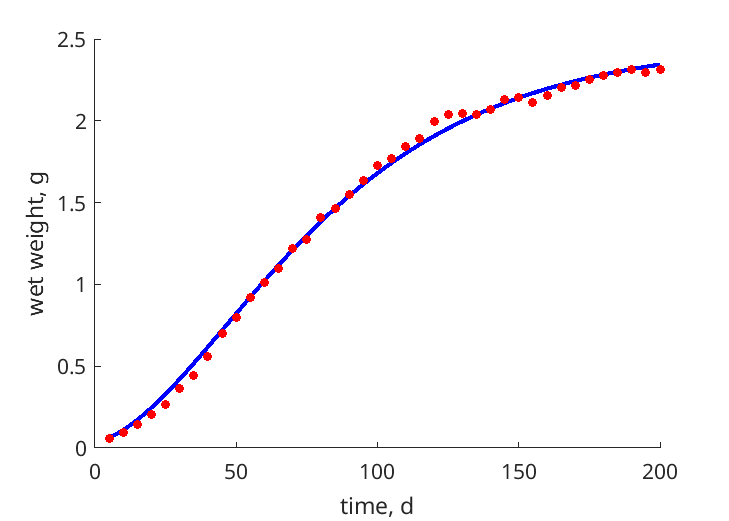
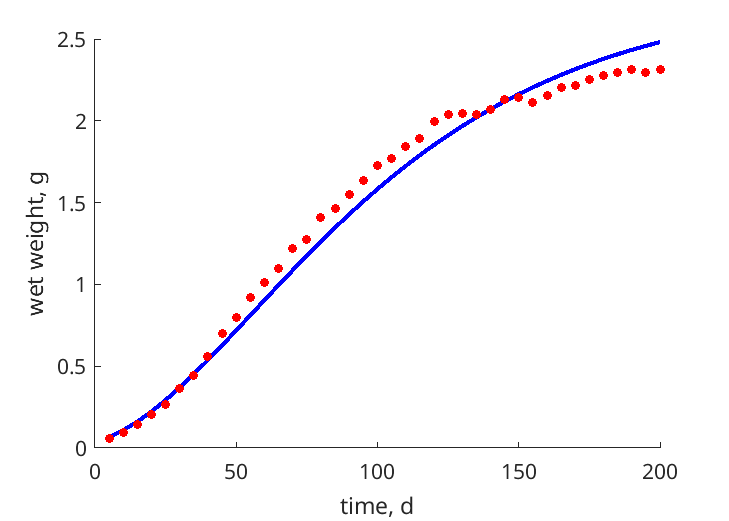
good fits (weighting)

diff --git a/deb_matlab/Dendrobena_veneta_res.html b/deb_matlab/Dendrobena_veneta_res.html
@@ -44,7 +44,7 @@
   </div>
 
   <div class="par">
-  <h4>COMPLETE = 2.5; MRE =    0.197; SMAE =    0.239; SMSE =    0.120 </h4>
+  <h4>COMPLETE = 2.5; MRE =    0.147; SMAE =    0.186; SMSE =    0.087 </h4>
   </div>
 
   <p class="clear"></p>
@@ -53,34 +53,34 @@
   <h2>Data & predictions</h2>
   <TABLE id="prd">
     <TR  class="head"><TH>data</TH> <TH>prd</TH> <TH>RE</TH>  <TH>symbol</TH> <TH>units</TH> <TH>description</TH> </TR>
-    <TR><TD>42.1</TD> <TD>12.24</TD> <TD>0.7093</TD> <TD>ab_25</TD> <TD>d</TD> <TD>age at birth</TD></TR>
-    <TR><TD> 42</TD> <TD>12.24</TD> <TD>0.7086</TD> <TD>ab_25_2</TD> <TD>d</TD> <TD>age at birth</TD></TR>
-    <TR><TD> 71</TD> <TD>31.06</TD> <TD>0.5626</TD> <TD>ab_15</TD> <TD>d</TD> <TD>age at birth</TD></TR>
-    <TR><TD> 21</TD> <TD>19.34</TD> <TD>0.07891</TD> <TD>ab_20</TD> <TD>d</TD> <TD>age at birth</TD></TR>
-    <TR><TD>0.01</TD> <TD>0.02653</TD> <TD>1.653</TD> <TD>Wwb_20</TD> <TD>g</TD> <TD>wet weight at birth</TD></TR>
-    <TR><TD>0.024</TD> <TD>0.02653</TD> <TD>0.1054</TD> <TD>Wwb_25</TD> <TD>g</TD> <TD>wet weight at birth</TD></TR>
-    <TR><TD>1.095</TD> <TD>0.9354</TD> <TD>0.1458</TD> <TD>Wwp</TD> <TD>g</TD> <TD>wet weight at puberty</TD></TR>
-    <TR><TD> 60</TD> <TD>56.9</TD> <TD>0.05169</TD> <TD>tp</TD> <TD>d</TD> <TD>time since birth at puberty</TD></TR>
-    <TR><TD> 65</TD> <TD>56.9</TD> <TD>0.1246</TD> <TD>tp2</TD> <TD>d</TD> <TD>time since birth at puberty</TD></TR>
-    <TR><TD> 77</TD> <TD>144.4</TD> <TD>0.8751</TD> <TD>tp3</TD> <TD>d</TD> <TD>time since birth at puberty</TD></TR>
-    <TR><TD> 11</TD> <TD>9.455</TD> <TD>0.1405</TD> <TD>Li</TD> <TD>cm</TD> <TD>ultimate body length</TD></TR>
-    <TR><TD>2190</TD> <TD>3116</TD> <TD>0.4229</TD> <TD>am</TD> <TD>d</TD> <TD>life span</TD></TR>
-    <TR><TD>2.312</TD> <TD>2.386</TD> <TD>0.03229</TD> <TD>Wwi</TD> <TD>g</TD> <TD>ultimate wet weight</TD></TR>
-    <TR><TD>0.308</TD> <TD>0.404</TD> <TD>0.3118</TD> <TD>Ri_25</TD> <TD>cocoons/worm/d</TD> <TD>maximum reproduction rate</TD></TR>
-    <TR><TD>20.4</TD> <TD>0.141</TD> <TD>0.9931</TD> <TD>Ri_15</TD> <TD>cocoons/worm/d</TD> <TD>maximum reproduction rate</TD></TR>
-    <TR><TD>0.3388</TD> <TD>0.3838</TD> <TD>0.1328</TD> <TD>Ri_18</TD> <TD>cocoons/worm/d</TD> <TD>maximum reproduction rate</TD></TR>
-    <TR><TD>0.37</TD> <TD>0.2313</TD> <TD>0.3748</TD> <TD>Ri_20</TD> <TD>cocoons/worm/d</TD> <TD>maximum reproduction rate</TD></TR>
-    <TR><TD colspan="2">see figure</TD> <TD>0.01943</TD> <TD>tW_Vilj</TD> <TD colspan="2">time <font color="blue"><i>vs.</i></font> wet weight</TD>
-    <TR><TD colspan="2">see figure</TD> <TD>0.02863</TD> <TD>tW_Vilj_2</TD> <TD colspan="2">time <font color="blue"><i>vs.</i></font> wet weight</TD>
-    <TR><TD colspan="2">see figure</TD> <TD>0.207</TD> <TD>tW_Vilj_3</TD> <TD colspan="2">time <font color="blue"><i>vs.</i></font> wet weight</TD>
-    <TR><TD colspan="2">see figure</TD> <TD>0.1137</TD> <TD>tW_podolak</TD> <TD colspan="2">time <font color="blue"><i>vs.</i></font> wet weight</TD>
-    <TR><TD colspan="2">see figure</TD> <TD>0.3235</TD> <TD>tW_Kova</TD> <TD colspan="2">time <font color="blue"><i>vs.</i></font> wet weight</TD>
-    <TR class="psd"><TD>0.02</TD> <TD>0.01298</TD> <TD>0.3511</TD> <TD>psd.v</TD> <TD>cm/d</TD> <TD>energy conductance</TD></TR>
-    <TR class="psd"><TD> 18</TD> <TD>5524</TD> <TD>305.9</TD> <TD>psd.p_M</TD> <TD>J/d.cm^3</TD> <TD>vol-spec som maint</TD></TR>
+    <TR><TD>42.1</TD> <TD>15.95</TD> <TD>0.6212</TD> <TD>ab_25</TD> <TD>d</TD> <TD>age at birth</TD></TR>
+    <TR><TD> 42</TD> <TD>15.95</TD> <TD>0.6203</TD> <TD>ab_25_2</TD> <TD>d</TD> <TD>age at birth</TD></TR>
+    <TR><TD> 71</TD> <TD>16.03</TD> <TD>0.7742</TD> <TD>ab_15</TD> <TD>d</TD> <TD>age at birth</TD></TR>
+    <TR><TD> 21</TD> <TD>15.99</TD> <TD>0.2387</TD> <TD>ab_20</TD> <TD>d</TD> <TD>age at birth</TD></TR>
+    <TR><TD>0.01</TD> <TD>0.03181</TD> <TD>2.181</TD> <TD>Wwb_20</TD> <TD>g</TD> <TD>wet weight at birth</TD></TR>
+    <TR><TD>0.024</TD> <TD>0.03181</TD> <TD>0.3253</TD> <TD>Wwb_25</TD> <TD>g</TD> <TD>wet weight at birth</TD></TR>
+    <TR><TD>1.095</TD> <TD>0.8848</TD> <TD>0.1919</TD> <TD>Wwp</TD> <TD>g</TD> <TD>wet weight at puberty</TD></TR>
+    <TR><TD> 60</TD> <TD>70.42</TD> <TD>0.1736</TD> <TD>tp</TD> <TD>d</TD> <TD>time since birth at puberty</TD></TR>
+    <TR><TD> 65</TD> <TD>70.42</TD> <TD>0.08333</TD> <TD>tp2</TD> <TD>d</TD> <TD>time since birth at puberty</TD></TR>
+    <TR><TD> 77</TD> <TD>70.78</TD> <TD>0.08075</TD> <TD>tp3</TD> <TD>d</TD> <TD>time since birth at puberty</TD></TR>
+    <TR><TD> 11</TD> <TD>11.39</TD> <TD>0.03504</TD> <TD>Li</TD> <TD>cm</TD> <TD>ultimate body length</TD></TR>
+    <TR><TD>2190</TD> <TD>2100</TD> <TD>0.04116</TD> <TD>am</TD> <TD>d</TD> <TD>life span</TD></TR>
+    <TR><TD>2.312</TD> <TD>2.017</TD> <TD>0.1276</TD> <TD>Wwi</TD> <TD>g</TD> <TD>ultimate wet weight</TD></TR>
+    <TR><TD>0.308</TD> <TD>0.3431</TD> <TD>0.1139</TD> <TD>Ri_25</TD> <TD>cocoons/worm/d</TD> <TD>maximum reproduction rate</TD></TR>
+    <TR><TD>20.4</TD> <TD>0.3769</TD> <TD>0.9815</TD> <TD>Ri_15</TD> <TD>cocoons/worm/d</TD> <TD>maximum reproduction rate</TD></TR>
+    <TR><TD>0.3388</TD> <TD>0.3423</TD> <TD>0.01043</TD> <TD>Ri_18</TD> <TD>cocoons/worm/d</TD> <TD>maximum reproduction rate</TD></TR>
+    <TR><TD>0.37</TD> <TD>0.3321</TD> <TD>0.1026</TD> <TD>Ri_20</TD> <TD>cocoons/worm/d</TD> <TD>maximum reproduction rate</TD></TR>
+    <TR><TD colspan="2">see figure</TD> <TD>0.05632</TD> <TD>tW_Vilj</TD> <TD colspan="2">time <font color="blue"><i>vs.</i></font> wet weight</TD>
+    <TR><TD colspan="2">see figure</TD> <TD>0.05718</TD> <TD>tW_Vilj_2</TD> <TD colspan="2">time <font color="blue"><i>vs.</i></font> wet weight</TD>
+    <TR><TD colspan="2">see figure</TD> <TD>0.04535</TD> <TD>tW_Vilj_3</TD> <TD colspan="2">time <font color="blue"><i>vs.</i></font> wet weight</TD>
+    <TR><TD colspan="2">see figure</TD> <TD>0.06991</TD> <TD>tW_podolak</TD> <TD colspan="2">time <font color="blue"><i>vs.</i></font> wet weight</TD>
+    <TR><TD colspan="2">see figure</TD> <TD>0.2256</TD> <TD>tW_Kova</TD> <TD colspan="2">time <font color="blue"><i>vs.</i></font> wet weight</TD>
+    <TR class="psd"><TD>0.02</TD> <TD>0.0168</TD> <TD>0.1601</TD> <TD>psd.v</TD> <TD>cm/d</TD> <TD>energy conductance</TD></TR>
+    <TR class="psd"><TD> 18</TD> <TD>6540</TD> <TD>362.3</TD> <TD>psd.p_M</TD> <TD>J/d.cm^3</TD> <TD>vol-spec som maint</TD></TR>
     <TR class="psd"><TD>0.002</TD> <TD>0.002</TD> <TD>  0</TD> <TD>psd.k_J</TD> <TD>1/d</TD> <TD>maturity maint rate coefficient</TD></TR>
-    <TR class="psd"><TD>0.3</TD> <TD>0.001516</TD> <TD>0.9949</TD> <TD>psd.k</TD> <TD>-</TD> <TD>maintenance ratio</TD></TR>
-    <TR class="psd"><TD>0.8</TD> <TD>0.7919</TD> <TD>0.01015</TD> <TD>psd.kap</TD> <TD>-</TD> <TD>allocation fraction to soma</TD></TR>
-    <TR class="psd"><TD>0.8</TD> <TD>0.7992</TD> <TD>0.0009652</TD> <TD>psd.kap_G</TD> <TD>-</TD> <TD>growth efficiency</TD></TR>
+    <TR class="psd"><TD>0.3</TD> <TD>0.001289</TD> <TD>0.9957</TD> <TD>psd.k</TD> <TD>-</TD> <TD>maintenance ratio</TD></TR>
+    <TR class="psd"><TD>0.8</TD> <TD>0.6858</TD> <TD>0.1427</TD> <TD>psd.kap</TD> <TD>-</TD> <TD>allocation fraction to soma</TD></TR>
+    <TR class="psd"><TD>0.8</TD> <TD>0.7939</TD> <TD>0.007593</TD> <TD>psd.kap_G</TD> <TD>-</TD> <TD>growth efficiency</TD></TR>
     <TR class="psd"><TD>0.95</TD> <TD>0.475</TD> <TD>0.5</TD> <TD>psd.kap_R</TD> <TD>-</TD> <TD>reproduction efficiency</TD></TR>
   </TABLE>
   </div>
@@ -90,29 +90,29 @@
   <TABLE id="par">
     <TR class="head"><TH>symbol</TH> <TH>units</TH> <TH>value</TH>  <TH>free</TH> <TH>description</TH> </TR>
     <TR><TD>T_ref</TD> <TD>K</TD> <TD>293.1</TD> <TD>0</TD> <TD>Reference temperature</TD></TR>
-    <TR><TD>z</TD> <TD>-</TD> <TD>0.3559</TD> <TD>1</TD> <TD>zoom factor</TD></TR>
+    <TR><TD>z</TD> <TD>-</TD> <TD>0.3366</TD> <TD>1</TD> <TD>zoom factor</TD></TR>
     <TR><TD>F_m</TD> <TD>l/d.cm^2</TD> <TD>6.5</TD> <TD>0</TD> <TD>{F_m}, max spec searching rate</TD></TR>
     <TR><TD>kap_X</TD> <TD>-</TD> <TD>0.8</TD> <TD>0</TD> <TD>digestion efficiency of food to reserve</TD></TR>
     <TR><TD>kap_P</TD> <TD>-</TD> <TD>0.1</TD> <TD>0</TD> <TD>faecation efficiency of food to faeces</TD></TR>
-    <TR><TD>v</TD> <TD>cm/d</TD> <TD>0.01298</TD> <TD>1</TD> <TD>energy conductance</TD></TR>
-    <TR><TD>kap</TD> <TD>-</TD> <TD>0.7919</TD> <TD>1</TD> <TD>allocation fraction to soma</TD></TR>
+    <TR><TD>v</TD> <TD>cm/d</TD> <TD>0.0168</TD> <TD>1</TD> <TD>energy conductance</TD></TR>
+    <TR><TD>kap</TD> <TD>-</TD> <TD>0.6858</TD> <TD>1</TD> <TD>allocation fraction to soma</TD></TR>
     <TR><TD>kap_R</TD> <TD>-</TD> <TD>0.475</TD> <TD>0</TD> <TD>reproduction efficiency</TD></TR>
-    <TR><TD>p_M</TD> <TD>J/d.cm^3</TD> <TD>5524</TD> <TD>1</TD> <TD>[p_M], vol-spec somatic maint</TD></TR>
+    <TR><TD>p_M</TD> <TD>J/d.cm^3</TD> <TD>6540</TD> <TD>1</TD> <TD>[p_M], vol-spec somatic maint</TD></TR>
     <TR><TD>p_T</TD> <TD>J/d.cm^2</TD> <TD>  0</TD> <TD>0</TD> <TD>{p_T}, surf-spec somatic maint</TD></TR>
     <TR><TD>k_J</TD> <TD>1/d</TD> <TD>0.002</TD> <TD>0</TD> <TD>maturity maint rate coefficient</TD></TR>
-    <TR><TD>E_G</TD> <TD>J/cm^3</TD> <TD>4188</TD> <TD>1</TD> <TD>[E_G], spec cost for structure</TD></TR>
-    <TR><TD>E_Hb</TD> <TD>J</TD> <TD>4.321</TD> <TD>1</TD> <TD>maturity at birth</TD></TR>
-    <TR><TD>E_Hp</TD> <TD>J</TD> <TD>990.6</TD> <TD>1</TD> <TD>maturity at puberty</TD></TR>
-    <TR><TD>h_a</TD> <TD>1/d^2</TD> <TD>1.6e-08</TD> <TD>1</TD> <TD>Weibull aging acceleration</TD></TR>
+    <TR><TD>E_G</TD> <TD>J/cm^3</TD> <TD>4216</TD> <TD>1</TD> <TD>[E_G], spec cost for structure</TD></TR>
+    <TR><TD>E_Hb</TD> <TD>J</TD> <TD>8.97</TD> <TD>1</TD> <TD>maturity at birth</TD></TR>
+    <TR><TD>E_Hp</TD> <TD>J</TD> <TD>1600</TD> <TD>1</TD> <TD>maturity at puberty</TD></TR>
+    <TR><TD>h_a</TD> <TD>1/d^2</TD> <TD>9.291e-09</TD> <TD>1</TD> <TD>Weibull aging acceleration</TD></TR>
     <TR><TD>s_G</TD> <TD>-</TD> <TD>0.0001</TD> <TD>0</TD> <TD>Gompertz stress coefficient</TD></TR>
-    <TR><TD>T_A</TD> <TD>K</TD> <TD>8000</TD> <TD>0</TD> <TD>Arrhenius temperature</TD></TR>
-    <TR><TD>del_M</TD> <TD>-</TD> <TD>0.03764</TD> <TD>1</TD> <TD>shape coefficient</TD></TR>
+    <TR><TD>T_A</TD> <TD>K</TD> <TD>44.46</TD> <TD>1</TD> <TD>Arrhenius temperature</TD></TR>
+    <TR><TD>del_M</TD> <TD>-</TD> <TD>0.02956</TD> <TD>1</TD> <TD>shape coefficient</TD></TR>
     <TR><TD>f</TD> <TD>-</TD> <TD>  1</TD> <TD>0</TD> <TD>scaled functional response for 0-var data</TD></TR>
-    <TR><TD>f_Kova</TD> <TD>-</TD> <TD>1.133</TD> <TD>1</TD> <TD>f for Kovacevic et al. 2023</TD></TR>
-    <TR><TD>f_Vilj</TD> <TD>-</TD> <TD>1.01</TD> <TD>1</TD> <TD>f for Viljoen et al. 1991</TD></TR>
-    <TR><TD>f_Vilj_2</TD> <TD>-</TD> <TD>1.003</TD> <TD>1</TD> <TD>f for Viljoen et al. 1992</TD></TR>
-    <TR><TD>f_Vilj_3</TD> <TD>-</TD> <TD>1.161</TD> <TD>1</TD> <TD>f for Viljoen et al. 1992 (15C)</TD></TR>
-    <TR><TD>f_podolak</TD> <TD>-</TD> <TD>1.072</TD> <TD>1</TD> <TD>f for Podolak et al. 2020</TD></TR>
+    <TR><TD>f_Kova</TD> <TD>-</TD> <TD>1.124</TD> <TD>1</TD> <TD>f for Kovacevic et al. 2023</TD></TR>
+    <TR><TD>f_Vilj</TD> <TD>-</TD> <TD>1.085</TD> <TD>1</TD> <TD>f for Viljoen et al. 1991</TD></TR>
+    <TR><TD>f_Vilj_2</TD> <TD>-</TD> <TD>1.075</TD> <TD>1</TD> <TD>f for Viljoen et al. 1992</TD></TR>
+    <TR><TD>f_Vilj_3</TD> <TD>-</TD> <TD>0.9657</TD> <TD>1</TD> <TD>f for Viljoen et al. 1992 (15C)</TD></TR>
+    <TR><TD>f_podolak</TD> <TD>-</TD> <TD>1.088</TD> <TD>1</TD> <TD>f for Podolak et al. 2020</TD></TR>
   </TABLE>
   </div>
 

diff --git a/doc/DEB_Dendrobena_veneta.tex b/doc/DEB_Dendrobena_veneta.tex
@@ -17,7 +17,7 @@
 \usepackage{noto}
 
 % Title and author
-\title{Dynamic Energy Budget (DEB) Theory Applied to \textit{Dendrobena veneta}}
+\title{Updated Dynamic Energy Budget (DEB) Theory Applied to \textit{Dendrobena veneta}}
 \author{}
 \date{May 2025}
 
@@ -26,20 +26,20 @@
 \maketitle
 
 \begin{abstract}
-This document explains the application of Dynamic Energy Budget (DEB) theory to model the life history of the earthworm \textit{Dendrobena veneta} (European nightcrawler) using a MATLAB-based prediction function (\texttt{predict\_Dendrobena\_veneta.m}). DEB theory provides a framework for understanding how organisms allocate energy from food to growth, maintenance, and reproduction. We describe the core principles of DEB, detail how they are implemented in the prediction function, and illustrate their application to zero-variate and uni-variate data for \textit{D. veneta}. This explanation is aimed at readers new to DEB theory, with references to the provided MATLAB code.
+This document provides an updated explanation of the application of Dynamic Energy Budget (DEB) theory to model the life history of the earthworm \textit{Dendrobena veneta} (European nightcrawler) using a MATLAB-based prediction function (\texttt{predict\_Dendrobena\_veneta.m}). DEB theory models energy allocation from food to growth, maintenance, and reproduction. We describe DEB principles, detail their implementation in the updated prediction function, and explain how they predict zero-variate and uni-variate data for \textit{D. veneta}. Changes in the codebase, including parameter initialization and data weights, are incorporated. This explanation targets readers new to DEB theory, referencing the provided MATLAB code.
 \end{abstract}
 
 \section{Introduction}
-Dynamic Energy Budget (DEB) theory, developed by Bas Kooijman \citep{Kooijman2010}, is a mechanistic framework for modeling the energy and mass flows in organisms throughout their life cycle. It is widely used in ecology and ecotoxicology to predict traits such as growth, reproduction, and lifespan. The MATLAB function \texttt{predict\_Dendrobena\_veneta.m}, part of the DEBtool toolbox, applies DEB theory to predict life history traits of the earthworm \textit{Dendrobena veneta} based on experimental data from studies like \citet{Viljoen1991, Viljoen1992, Kovacevic2023, Podolak2020}.
+Dynamic Energy Budget (DEB) theory, developed by Bas Kooijman \citep{Kooijman2010}, is a mechanistic framework for modeling energy and mass flows in organisms throughout their life cycle. It is widely used in ecology and ecotoxicology to predict traits such as growth, reproduction, and lifespan. The MATLAB function \texttt{predict\_Dendrobena\_veneta.m}, part of the DEBtool toolbox, applies DEB theory to predict life history traits of the earthworm \textit{Dendrobena veneta} based on experimental data from \citet{Viljoen1991, Viljoen1992, Kovacevic2023, Podolak2020}. The updated codebase includes changes in parameter initialization (\texttt{run\_Dendrobena\_veneta.m}) and data weights (\texttt{mydata\_Dendrobena\_veneta.m}).
 
-This document explains the DEB theory concepts underlying the prediction function, focusing on how energy allocation, growth, and temperature effects are modeled. We break down the code’s structure and map it to DEB principles, making it accessible for those unfamiliar with the theory.
+This document explains the DEB theory concepts underlying the prediction function, focusing on energy allocation, growth, and temperature effects. We break down the updated code and map it to DEB principles, making it accessible for those unfamiliar with the theory.
 
 \section{Overview of DEB Theory}
-DEB theory assumes that organisms assimilate energy from food into a \textit{reserve} compartment, which is then allocated to various processes. The key state variables are:
+DEB theory assumes that organisms assimilate energy from food into a \textit{reserve} compartment, which is allocated to metabolic processes. The key state variables are:
 \begin{itemize}
-    \item \textbf{Reserve ($E$)}: Energy stored from food, used for all metabolic processes.
+    \item \textbf{Reserve ($E$)}: Energy stored from food, used for all processes.
     \item \textbf{Structure ($V$)}: Physical biomass (volume, cm$^3$), representing core tissues.
-    \item \textbf{Maturity ($E_H$)}: Cumulative energy invested in development (e.g., reaching birth or puberty).
+    \item \textbf{Maturity ($E_H$)}: Cumulative energy invested in development (e.g., birth, puberty).
     \item \textbf{Reproduction buffer ($E_R$)}: Energy allocated to reproduction in adults.
 \end{itemize}
 
@@ -54,7 +54,7 @@ Energy allocation follows these rules:
 Growth is modeled using structural length ($L = V^{1/3}$, cm), related to physical length ($L_w = L / \delta_M$, where $\delta_M$ is a shape coefficient). Metabolic rates are temperature-dependent, adjusted using an Arrhenius relationship. The standard DEB model (\texttt{std}), used in the code, assumes isomorphic growth (constant body shape).
 
 \section{DEB Implementation in \texttt{predict\_Dendrobena\_veneta.m}}
-The \texttt{predict\_Dendrobena\_veneta.m} function predicts life history traits for \textit{D. veneta} using DEB parameters, data, and auxiliary data (e.g., temperatures). Below, we explain the main sections of the code and their DEB underpinnings.
+The \texttt{predict\_Dendrobena\_veneta.m} function predicts life history traits for \textit{D. veneta} using DEB parameters, data, and auxiliary data (e.g., temperatures). Below, we explain the main sections of the code and their DEB underpinnings, incorporating updates from the codebase.
 
 \subsection{Unpacking Parameters and Data}
 \begin{verbatim}
@@ -63,7 +63,7 @@ vars_pull(cPar); vars_pull(data); vars_pull(auxData);
 \end{verbatim}
 The function unpacks core parameters (e.g., zoom factor $z$, energy conductance $v$, allocation fraction $\kappa$), derived parameters (e.g., maximum structural length $L_m$), and data (e.g., age at birth, growth curves). The \texttt{parscomp\_st} function computes variables like $L_m = z \cdot v / \kappa \cdot [p_M]$, where $[p_M]$ is specific maintenance cost.
 
-\textbf{DEB Context}: Parameters define the energy budget. For example, $z = 0.3431$, $v = 0.01477$ cm/d, $\kappa = 0.5756$, and $[p_M] = 4740.8319$ J/d.cm$^3$ (from \texttt{pars\_init\_Dendrobena\_veneta.m}) determine assimilation, mobilization, and maintenance rates.
+\textbf{DEB Context}: Parameters define the energy budget. For example, $z = 0.3431$, $v = 0.01477$ cm/d, $\kappa = 0.5756$, and $[p_M] = 4740.8319$ J/d.cm$^3$ (from \texttt{pars\_init\_Dendrobena\_veneta.m}) determine assimilation, mobilization, and maintenance rates. The updated \texttt{run\_Dendrobena\_veneta.m} sets \texttt{pars\_init\_method = 1}, indicating parameters are initialized from \texttt{pars\_init\_Dendrobena\_veneta.m} without modification.
 
 \subsection{Temperature Correction}
 \begin{verbatim}
@@ -75,9 +75,9 @@ Metabolic rates are adjusted for temperature using the Arrhenius equation:
 \begin{equation}
 \text{TC} = \exp\left(\frac{T_A}{T_{\text{ref}}} - \frac{T_A}{T}\right),
 \end{equation}
-where $T_A = 8000$ K (Arrhenius temperature), $T_{\text{ref}} = 293.15$ K (20°C), and $T$ is the experimental temperature (e.g., 25°C for \texttt{ab\_25}).
+where $T_A = 8000$ K (Arrhenius temperature, now free for optimization), $T_{\text{ref}} = 293.15$ K (20°C), and $T$ is the experimental temperature (e.g., 25°C for \texttt{ab\_25}).
 
-\textbf{DEB Context}: Temperature affects all rates (e.g., maintenance, growth, reproduction). The \texttt{tempcorr} function ensures predictions match data at 15°C, 18°C, 20°C, and 25°C.
+\textbf{DEB Context}: Temperature affects all rates (e.g., maintenance, growth, reproduction). The \texttt{tempcorr} function ensures predictions match data at 15°C, 18°C, 20°C, and 25°C. The updated code keeps the same temperature corrections, with some commented-out (e.g., \texttt{TC\_ab\_18}), indicating they are not currently used.
 
 \subsection{Zero-Variate Predictions}
 Zero-variate data are single-point traits (e.g., age at birth, weight at puberty). The code predicts these using DEB equations.
@@ -131,7 +131,7 @@ RT_i_20 = TC_20 * reprod_rate(L_i, f_Kova, pars_R);  % #/d, at 20C
 \end{verbatim}
 The \texttt{reprod\_rate} function computes cocoon production rate, using $\kappa$, reproduction efficiency $\kappa_R = 0.475$, and food level ($f_{\text{Kova}}$, etc.). Temperature correction (\texttt{TC\_20}) adjusts the rate.
 
-\textbf{DEB Context}: Reproduction uses energy from the $1-\kappa$ branch, converted to cocoons with efficiency $\kappa_R$. Matches data (e.g., \texttt{Ri\_25 = 0.308 cocoons/worm/d}).
+\textbf{DEB Context}: Reproduction uses energy from the $1-\kappa$ branch, converted to cocoons with efficiency $\kappa_R$. Matches data (e.g., \texttt{Ri\_25 = 0.308 cocoons/worm/d}). Note that \texttt{Ri\_15 = 20.4 cocoons/worm/d} in \texttt{mydata\_Dendrobena\_veneta.m} may need verification due to its high value.
 
 \subsubsection{Life Span}
 \begin{verbatim}
@@ -141,7 +141,7 @@ aT_m = t_m / k_M / TC_am;
 \end{verbatim}
 Life span is modeled using aging parameters: Weibull acceleration ($h_a = 1.629 \times 10^{-8}$ 1/d$^2$) and Gompertz stress ($s_G = 0.0001$). Scaled life span ($t_m$) is converted to real time.
 
-\textbf{DEB Context}: Matches data (e.g., \texttt{am = 6*365 d}).
+\textbf{DEB Context}: Matches data (e.g., \texttt{am = 6*365 d}, a rough estimate).
 
 \subsection{Uni-Variate Predictions (Growth Curves)}
 \begin{verbatim}
@@ -156,7 +156,7 @@ L(t) = L_i - (L_i - L_b) \exp(-r_B \cdot t),
 \end{equation}
 where $r_B = \text{TC} / (3 / k_M + 3 f L_m / v)$ is the growth rate, adjusted for temperature. Wet weight is $L(t)^3 (1 + f \cdot \omega)$. This is applied to datasets (\texttt{tW\_Kova}, \texttt{tW\_Vilj}, etc.) at different temperatures and food levels.
 
-\textbf{DEB Context}: Growth reflects the balance between reserve mobilization and maintenance. The code handles initial conditions (e.g., \texttt{w0\_podo = 0.93 g} for \texttt{tW\_podolak}).
+\textbf{DEB Context}: Growth reflects the balance between reserve mobilization and maintenance. The code handles initial conditions (e.g., \texttt{w0\_podo = 0.93 g} for \texttt{tW\_podolak}). The updated \texttt{mydata\_Dendrobena\_veneta.m} assigns higher weights to growth curves (e.g., $10\times$ for \texttt{tW\_Vilj}, $15\times$ for \texttt{tW\_Vilj\_2}, $5\times$ for \texttt{tW\_Kova}), emphasizing their importance in parameter estimation.
 
 \subsection{Additional Predictions}
 The code includes extra zero-variate (e.g., \texttt{ab\_15}, \texttt{tp3}) and uni-variate (e.g., \texttt{tW\_Vilj\_2}) predictions, following the same DEB logic but tailored to specific datasets.
@@ -164,20 +164,28 @@ The code includes extra zero-variate (e.g., \texttt{ab\_15}, \texttt{tp3}) and u
 \section{Key DEB Parameters}
 From \texttt{pars\_init\_Dendrobena\_veneta.m}:
 \begin{itemize}
-    \item $z = 0.3431$: Scales assimilation rate.
-    \item $v = 0.01477$ cm/d: Reserve mobilization rate.
-    \item $\kappa = 0.5756$: Fraction to soma.
-    \item $[p_M] = 4740.8319$ J/d.cm$^3$: Maintenance cost.
-    \item $[E_G] = 4181.7688$ J/cm$^3$: Cost of structure.
-    \item $E_{Hb} = 5.229$ J, $E_{Hp} = 1055$ J: Maturity thresholds.
-    \item $\kappa_R = 0.475$: Reproduction efficiency.
-    \item $\delta_M = 0.050632$: Shape coefficient.
-    \item $T_A = 8000$ K: Temperature sensitivity.
+    \item $z = 0.3431$: Scales assimilation rate (free for optimization).
+    \item $v = 0.01477$ cm/d: Reserve mobilization rate (free).
+    \item $\kappa = 0.5756$: Fraction to soma (free).
+    \item $[p_M] = 4740.8319$ J/d.cm$^3$: Maintenance cost (free).
+    \item $[E_G] = 4181.7688$ J/cm$^3$: Cost of structure (free).
+    \item $E_{Hb} = 5.229$ J, $E_{Hp} = 1055$ J: Maturity thresholds (free).
+    \item $\kappa_R = 0.475$: Reproduction efficiency (fixed).
+    \item $\delta_M = 0.050632$: Shape coefficient (free).
+    \item $T_A = 8000$ K: Temperature sensitivity (free).
 \end{itemize}
-These parameters define \textit{D. veneta}’s energy budget and drive predictions.
+These parameters define \textit{D. veneta}’s energy budget. The updated \texttt{run\_Dendrobena\_veneta.m} uses the Nelder-Mead method (\texttt{method = 'nm'}) with 500 steps and 5000 function evaluations, and outputs detailed results (\texttt{results\_output = 3}).
+
+\section{Updated Code Features}
+The updated codebase includes:
+\begin{itemize}
+    \item \textbf{Parameter Initialization}: \texttt{pars\_init\_method = 1} in \texttt{run\_Dendrobena\_veneta.m} uses parameters directly from \texttt{pars\_init\_Dendrobena\_veneta.m}.
+    \item \textbf{Data Weights}: \texttt{mydata\_Dendrobena\_veneta.m} increases weights for growth curves (e.g., $10\times$ for \texttt{tW\_Vilj}, $15\times$ for \texttt{tW\_Vilj\_2} and \texttt{tW\_Vilj\_3}, $5\times$ for \texttt{tW\_podolak} and \texttt{tW\_Kova}) and pseudo-data ($10\times$ for \texttt{p\_M}), prioritizing these in parameter estimation.
+    \item \textbf{Duplicate \texttt{f\_Kova}}: \texttt{pars\_init\_Dendrobena\_veneta.m} defines \texttt{f\_Kova} twice, which should be corrected to avoid ambiguity.
+\end{itemize}
 
 \section{Conclusion}
-The \texttt{predict\_Dendrobena\_veneta.m} function applies DEB theory to model \textit{D. veneta}’s life history, predicting traits like age at birth, weight, and reproduction rate across temperatures (15–25°C) and food levels. It uses the standard DEB model, von Bertalanffy growth, and temperature corrections to match experimental data. This implementation demonstrates DEB’s power to integrate diverse datasets into a unified energetic framework.
+The updated \texttt{predict\_Dendrobena\_veneta.m} function applies DEB theory to model \textit{D. veneta}’s life history, predicting traits like age at birth, weight, and reproduction rate across temperatures (15–25°C) and food levels. It uses the standard DEB model, von Bertalanffy growth, and temperature corrections, with enhanced data weights to improve fit. This implementation demonstrates DEB’s ability to integrate diverse datasets into a unified energetic framework.
 
 For further learning, consult \citet{Kooijman2010} or the Add-my-Pet portal (\url{https://www.bio.vu.nl/thb/deb/deblab/add_my_pet/}).
 

diff --git a/deb_matlab/mydata_Dendrobena_veneta.m b/deb_matlab/mydata_Dendrobena_veneta.m
@@ -378,18 +378,16 @@ label.temp.tW_Kova = 'temperature';
 bibkey.tW_Kova = 'Kovacevic2023'; 
 comment.tW_Kova='Digitized from Kovacevic_et_al_2023_Fig3, control (0 mg/kg TEB)';
 
-
 %% set weights for all real data
 weights = setweights(data, []);
 
-% weights.ab_25 = 5*weights.ab_25; % 50% of all reared worms, Viljoen et al. 1991 21-
-weights.tW_Vilj = 10 * weights.tW_Vilj; % 10% of all reared worms, Viljoen et al. 1991 21-
-weights.tW_Vilj_2 = 10 * weights.tW_Vilj_2; % 10% of all reared worms, Viljoen et al. 1992 21-
-weights.tW_Vilj_3 = 10 * weights.tW_Vilj_3; % 10% of all reared worms, Viljoen et al. 1992 21-
-weights.tW_podolak = 15 * weights.tW_podolak; % 10% of all reared worms, Podolak et al. 2020
+weights.tW_Vilj = 10 * weights.tW_Vilj;
+weights.tW_Vilj_2 = 15 * weights.tW_Vilj_2;
+weights.tW_Vilj_3 = 15 * weights.tW_Vilj_3;
+weights.tW_podolak = 5 * weights.tW_podolak;
+weights.tW_Kova = 5 * weights.tW_Kova; 
 
-
-%% set pseudodata and respective weights
+% set pseudodata and respective weights
 [data, units, label, weights] = addpseudodata(data, units, label, weights);
 weights.psd.p_M = 10 * weights.psd.p_M;
 

diff --git a/deb_matlab/pars_init_Dendrobena_veneta.m b/deb_matlab/pars_init_Dendrobena_veneta.m
@@ -23,7 +23,7 @@ par.h_a = 1.629e-08;  free.h_a   = 1;   units.h_a = '1/d^2';      label.h_a = 'W
 par.s_G = 0.0001;     free.s_G   = 0;   units.s_G = '-';          label.s_G = 'Gompertz stress coefficient'; 
 
 %% other parameters 
-par.T_A = 8000;         free.T_A   = 0;     units.T_A = 'K';      label.T_A = 'Arrhenius temperature'; 
+par.T_A = 8000;         free.T_A   = 1;     units.T_A = 'K';      label.T_A = 'Arrhenius temperature'; 
 par.del_M = 0.050632;   free.del_M = 1;     units.del_M = '-';    label.del_M = 'shape coefficient'; 
 par.f = 1;              free.f     = 0;     units.f = '-';        label.f = 'scaled functional response for 0-var data'; 
 par.f_Kova = 1;         free.f_Kova  = 1;   units.f_Kova = '-';   label.f_Kova = 'f for Kovacevic et al. 2023'; 

diff --git a/deb_matlab/predict_Dendrobena_veneta.m b/deb_matlab/predict_Dendrobena_veneta.m
@@ -134,7 +134,7 @@ function [prdData, info] = predict_Dendrobena_veneta(par, data, auxData)
   f = f_podolak; TC = tempcorr(auxData.temp.tW_podolak, par.T_ref, par.T_A);
   ir_B = 3/ k_M + 3 * f * L_m/ v; rT_B = TC/ ir_B;
   L_i = L_m * (f - l_T); L_b = L_m * get_lb([g k v_Hb], f);
-  w0_podo = 0.93;
+  w0_podo = 0.93; % initial wet weight from Podolak et al. 2020
   L_t0 = (w0_podo/(1+f*ome)).^(1/3);
   L = L_i - (L_i - L_t0) * exp( - rT_B * tW_podolak(:,1));
   EWw_podolak = L.^3 * (1 + f * ome);

diff --git a/deb_matlab/run_Dendrobena_veneta.m b/deb_matlab/run_Dendrobena_veneta.m
@@ -13,7 +13,7 @@ estim_options('default');
 estim_options('max_step_number', 5e2); 
 estim_options('max_fun_evals', 5e3); 
 
-estim_options('pars_init_method', 2); 
+estim_options('pars_init_method', 1); 
 estim_options('results_output', 3); 
 estim_options('method', 'nm'); 
 
